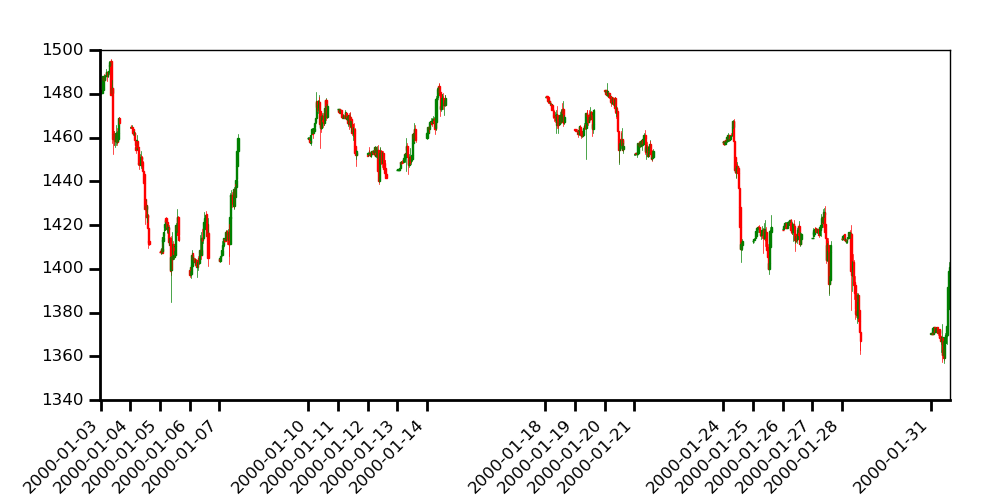
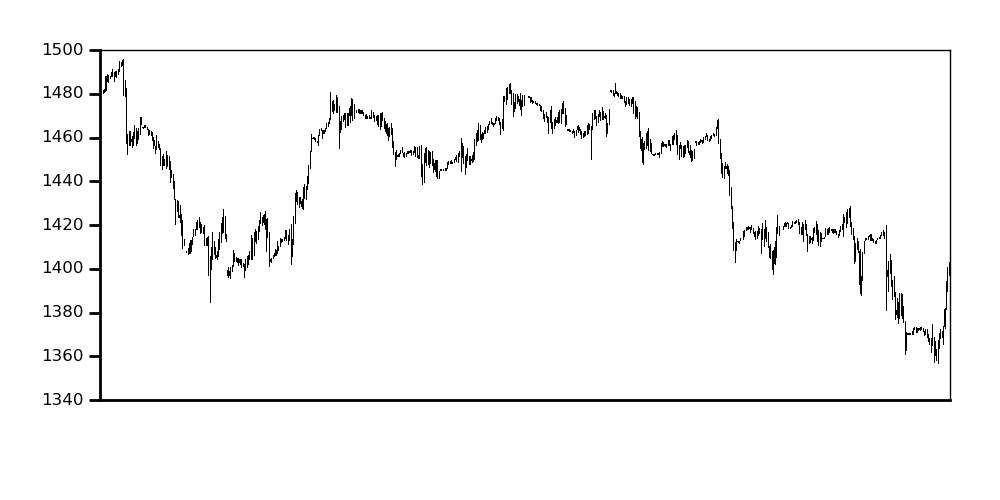
grhrhn

diff --git a/analize/charting_data.py b/analize/charting_data.py
@@ -7,7 +7,7 @@ import pandas as pd
 from pylab import date2num
 from matplotlib.dates import MinuteLocator, HourLocator, num2date,\
     DayLocator, MONDAY, DateFormatter, WeekdayLocator
-from matplotlib.finance import candlestick_ohlc
+from matplotlib.finance import candlestick2_ohlc
 
 
 df = pd.read_json('for_monthly_charts.json',)
@@ -15,19 +15,15 @@ for i in range(1):  # len(df.columns)):
     price = pd.DataFrame(df.ix[1,i])
     price['DT'] = pd.to_datetime(price['DT'])
     price['num_date'] = price['DT'].apply(date2num)
+
+    quotes = price[['num_date','O','L','H','C']].dropna()
     
     ndays = np.unique(np.trunc(price['num_date']), return_index=True)
-    print ndays[0]
     xdays =  []
     for n in np.arange(len(ndays[0])):
         xdays.append(datetime.date.isoformat(num2date(ndays[0][n])))
-    print xdays
 
-    # dayFormatter = DateFormatter('%d')
-    # mondays = WeekdayLocator(MONDAY)
-    # alldays = DayLocator()
-
-    quotes = price[['num_date','O','L','H','C']].dropna()
+    data2 = [quotes[1:]]
 
     fig = plt.figure(figsize=(10, 5))
     ax = fig.add_axes([0.1, 0.2, 0.85, 0.7])
@@ -39,7 +35,7 @@ for i in range(1):  # len(df.columns)):
     ax.spines['bottom'].set_linewidth(2)
     ax.set_xticks(ndays[0])
     ax.set_xticklabels(xdays, rotation=45, horizontalalignment='right')
-    candlestick_ohlc(ax, quotes.values, width=0.05, colorup='g', colordown='r')
+    candlestick2_ohlc(ax, quotes['O'], quotes['H'], quotes['L'], quotes['C'], width=0.05, colorup='g', colordown='r')
     name = "{}-{}.png".format(price['DT'][0].year, price['DT'][0].month)
     plt.savefig(name) 
     
